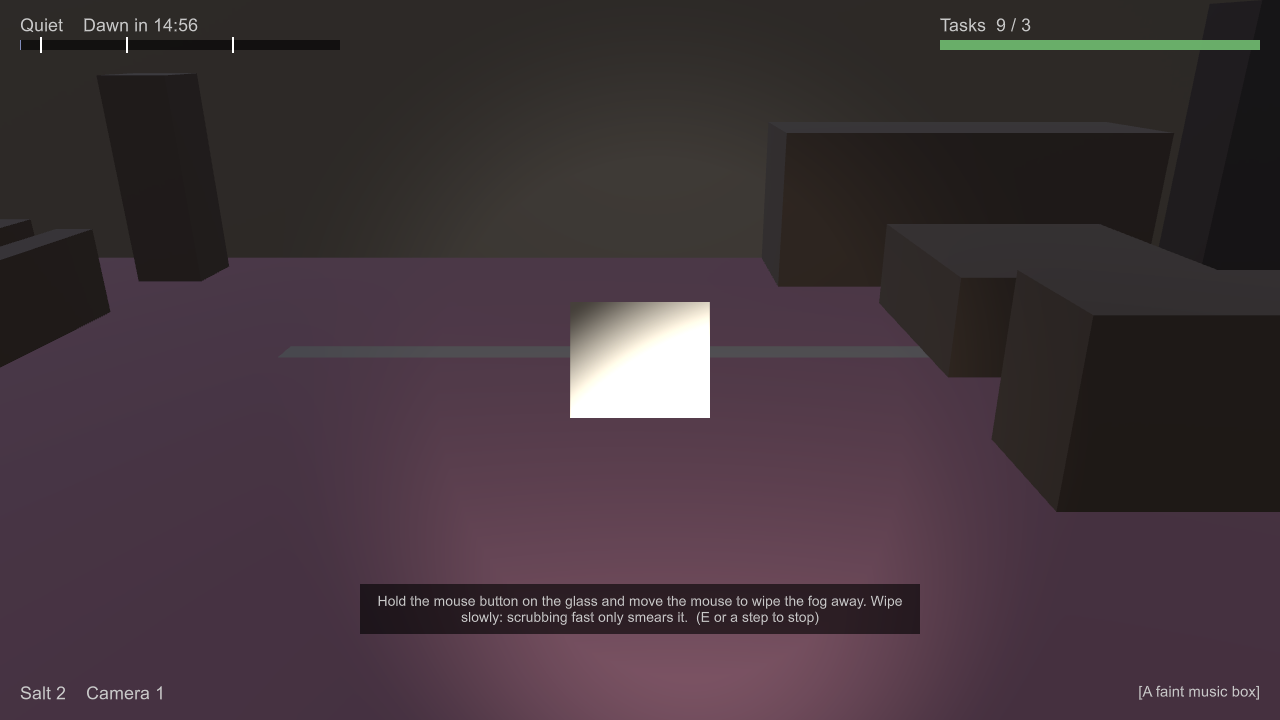
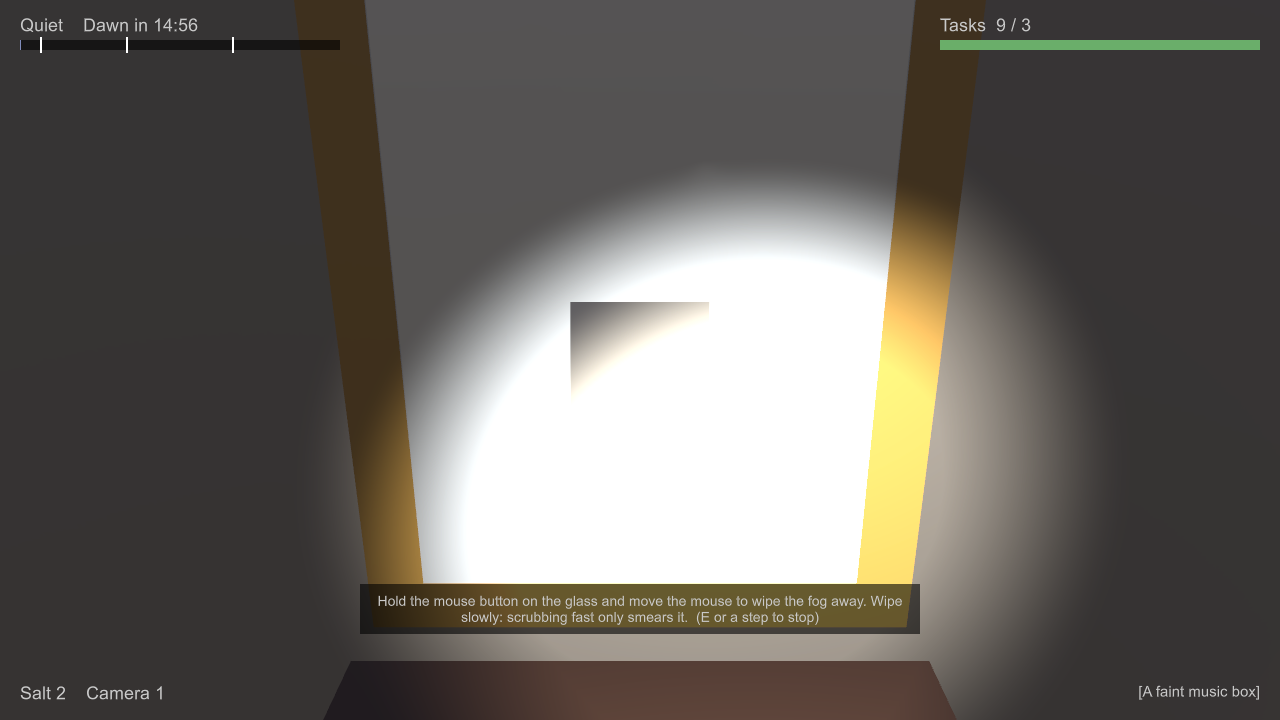
Phase 9c step C3 passed: a Unity player does all 14 tasks and the 3 relic searches by hand, then carries each relic to the relic door and places it. Station models are no longer hidden in the hotel's grey furniture boxes, world text hides behind objects, and the robot faces each station. Screenshots

diff --git a/engine/Assets/Scripts/Game/HandsBot.cs b/engine/Assets/Scripts/Game/HandsBot.cs
@@ -25,6 +25,12 @@ namespace Haunted.Game
         public MapInfo Map;
         public Stations Stations;
         public string ShotDir;
+        /// <summary>The relic in your hands ("" for none), and a relic's status by id.</summary>
+        public Func<string> Carrying;
+        public Func<string, string> RelicStatus;
+        /// <summary>The relic door (sim x, z) and the axis its wall runs along.</summary>
+        [NonSerialized] public double DoorX, DoorZ;
+        [NonSerialized] public bool DoorAlongX;
         public readonly List<string> Results = new List<string>();
 
         double vx, vy;
@@ -61,6 +67,12 @@ namespace Haunted.Game
                 while (!Hands.Active && waited < 3) { waited += Dt; yield return null; }
                 if (!Hands.Active) { Result(id, "did not open"); continue; }
                 var task = Hands.Task;
+                foreach (var part in task.Parts.Take(3))
+                {
+                    var r = part.GetComponent<Renderer>();
+                    var mf = part.GetComponent<MeshFilter>();
+                    Debug.Log("Part " + part.name + ": active " + part.activeInHierarchy + ", drawn " + (r != null && r.enabled) + ", at " + part.transform.position + ", bounds " + (r != null ? r.bounds.size.ToString() : "-") + ", verts " + (mf != null && mf.sharedMesh != null ? mf.sharedMesh.vertexCount : -1) + ", shader " + (r != null ? r.sharedMaterial.shader.name : "-") + ", colour " + (r != null ? r.sharedMaterial.color.ToString() : "-") + ", queue " + (r != null ? r.sharedMaterial.renderQueue : 0) + ", keywords " + (r != null ? string.Join(" ", r.sharedMaterial.shaderKeywords) : "") + ", layer " + part.layer + ", scale " + part.transform.lossyScale);
+                }
                 yield return new WaitForSeconds(0.6f);
                 Shot(ShotDir + "/" + id + "-open.png");
                 double started = Time.realtimeSinceStartupAsDouble;
@@ -78,8 +90,30 @@ namespace Haunted.Game
                 yield return new WaitForSeconds(0.8f);
                 Shot(ShotDir + "/" + id + "-after.png");
                 yield return new WaitForSeconds(0.5f);
+                if (!string.IsNullOrEmpty(Carrying())) yield return PlaceRelic(id);
             }
             Debug.Log("Hands test finished: " + string.Join("; ", Results.ToArray()));
+        }
+
+        /// <summary>Carries the relic you found to the relic door and holds E to place it there (GDD 10).</summary>
+        IEnumerator PlaceRelic(string from)
+        {
+            string relic = Carrying();
+            Shot(ShotDir + "/" + from + "-carrying.png");
+            foreach (var side in new[] { 1, -1 })
+            {
+                double x = DoorX + (DoorAlongX ? 0 : side * 0.9), z = DoorZ + (DoorAlongX ? side * 0.9 : 0);
+                Send("debug", new Dictionary<string, object> { { "teleport", new Dictionary<string, object> { { "x", x }, { "z", z } } } });
+                yield return new WaitForSeconds(1.2f);
+                Send("use", new Dictionary<string, object> { { "down", true } });
+                double waited = 0;
+                while (RelicStatus(relic) != "placed" && waited < 6) { waited += Dt; yield return null; }
+                Send("use", new Dictionary<string, object> { { "down", false } });
+                if (RelicStatus(relic) == "placed") break;
+            }
+            Result(from + " relic " + relic, RelicStatus(relic) == "placed" ? "carried and placed at the relic door" : "NOT placed (status " + RelicStatus(relic) + ")");
+            Shot(ShotDir + "/" + from + "-placed.png");
+            yield return new WaitForSeconds(0.5f);
         }
 
         void Result(string id, string what)

diff --git a/engine/Assets/Scripts/Game/Game.cs b/engine/Assets/Scripts/Game/Game.cs
@@ -87,8 +87,8 @@ namespace Haunted.Game
             if (baseMaterial == null) baseMaterial = new Material(Shader.Find("Universal Render Pipeline/Lit"));
 
             SetUpLight();
-            hotel = new Hotel(world, Json.Num(Json.Obj(config, "body"), "radiusM"), baseMaterial);
             map = new MapInfo(Resources.Load<TextAsset>("Data/map").text);
+            hotel = new Hotel(world, Json.Num(Json.Obj(config, "body"), "radiusM"), baseMaterial, Stations.Replaces(map));
             items = new Items(world, map, config, baseMaterial);
             others = new RemotePlayers(world, config, baseMaterial);
             HandsConfig.Load(config);
@@ -499,7 +499,19 @@ namespace Haunted.Game
                 {
                     Send = (type, body) => room.Send(type, body), Shot = path => { ScreenCapture.CaptureScreenshot(path); Debug.Log("Screenshot " + path); },
                     Hands = hands, Me = me, Map = map, Stations = stations, ShotDir = handsShots,
+                    Carrying = () => night.Me != null ? night.Me.relic : "",
+                    RelicStatus = id => { Relic r; return room.State.relics.TryGetValue(id, out r) ? r.status : "?"; },
                 };
+                // The relic door, from the map data.
+                var mapJson = (Dictionary<string, object>)Json.Parse(Resources.Load<TextAsset>("Data/map").text);
+                foreach (var o in (List<object>)mapJson["doors"])
+                {
+                    var d = (Dictionary<string, object>)o;
+                    if ((string)d["id"] != (string)mapJson["relicDoor"]) continue;
+                    bot.DoorX = Convert.ToDouble(d["x"], CultureInfo.InvariantCulture);
+                    bot.DoorZ = Convert.ToDouble(d["z"], CultureInfo.InvariantCulture);
+                    bot.DoorAlongX = (string)d["axis"] == "x";
+                }
                 StartCoroutine(bot.Run(handsTest));
             }
             if (shotPath != null && !shotTaken && shotAt >= 0 && t >= shotAt)

diff --git a/engine/Assets/Scripts/Game/Shapes.cs b/engine/Assets/Scripts/Game/Shapes.cs
@@ -15,6 +15,7 @@ namespace Haunted.Game
     {
         static Material lit, glow, clear, unlit, unlitClear;
         static Mesh cube, cylinder, sphere;
+        static Material textMaterial;
         static readonly Dictionary<string, Mesh> meshes = new Dictionary<string, Mesh>();
 
         public static void Load(Material greyBox)
@@ -238,7 +239,13 @@ namespace Haunted.Game
             go.transform.localPosition = P(x, y, z);
             var t = go.AddComponent<TextMesh>();
             t.font = Resources.GetBuiltinResource<Font>("LegacyRuntime.ttf");
-            go.GetComponent<MeshRenderer>().sharedMaterial = t.font.material;
+            if (textMaterial == null)
+            {
+                // The font's own material draws over everything (GUI text); in the world it must hide behind things.
+                textMaterial = new Material(t.font.material);
+                textMaterial.SetFloat("unity_GUIZTestMode", (float)UnityEngine.Rendering.CompareFunction.LessEqual);
+            }
+            go.GetComponent<MeshRenderer>().sharedMaterial = textMaterial;
             t.fontSize = 64;
             t.fontStyle = style;
             // At fontSize 64 a characterSize of 1 makes letters about 6.4 m tall... scaled to size.

diff --git a/engine/Assets/Scripts/Game/Hotel.cs b/engine/Assets/Scripts/Game/Hotel.cs
@@ -27,7 +27,8 @@ namespace Haunted.Game
         static readonly Color StairColor = new Color(0.45f, 0.4f, 0.36f);
         const float FloorThicknessM = 0.1f;
 
-        public Hotel(WorldData world, double bodyRadiusM, Material baseMaterial)
+        /// <summary>replaced: whether a model stands in this furniture's place (a task station), so its grey box is left out, as the browser leaves out boxes its models replace. Collision still has it.</summary>
+        public Hotel(WorldData world, double bodyRadiusM, Material baseMaterial, System.Func<SolidBox, bool> replaced = null)
         {
             World = world;
             Collision = new Collision(world, bodyRadiusM);
@@ -44,6 +45,7 @@ namespace Haunted.Game
 
             foreach (var s in world.Solids)
             {
+                if (s.Kind == "furniture" && replaced != null && replaced(s)) continue;
                 Color color = s.Kind == "door" ? DoorColor : s.Kind == "hide" ? HideColor : s.Kind == "furniture" ? FurnitureColor : WallColor;
                 var go = Box((s.Id ?? s.Kind), s.X, s.Z, s.SizeX, s.SizeZ, 0, s.HeightM, color);
                 go.transform.SetParent(root.transform, true);

diff --git a/engine/Assets/Scripts/Game/Stations.cs b/engine/Assets/Scripts/Game/Stations.cs
@@ -135,6 +135,18 @@ namespace Haunted.Game
             }
         }
 
+        /// <summary>Whether a station or a place to search stands inside this piece of furniture: its model takes the grey box's place.</summary>
+        public static Func<SolidBox, bool> Replaces(MapInfo map)
+        {
+            var points = map.Tasks.Select(t => t.At).ToList();
+            foreach (var spot in map.RelicSpots)
+            {
+                if (spot.Places != null) points.AddRange(spot.Places.Select(p => p.At));
+                else points.Add(spot.At);
+            }
+            return s => points.Any(p => Math.Abs(p.X - s.X) <= s.SizeX / 2 + 0.05 && Math.Abs(p.Z - s.Z) <= s.SizeZ / 2 + 0.05);
+        }
+
         void Place(Transform t, WorldData world, MapInfo map, double x, double z, double yaw)
         {
             t.SetParent(root, false);

diff --git a/docs/plans/engine-port.md b/docs/plans/engine-port.md
@@ -120,3 +120,10 @@ Step C is the biggest step, so it is done in five parts, each tested before the 
 **C1 passed (2026-11-15).** A Unity host and two bots (`tools/playtest.ts lose-dawn CODE` and `lose-dead CODE`) played to the end screen: lobby, start, role, the night clock and its parts, the task bar, being down (`step-c/c1-night-hud-down.png`), dawn and everyone-dead endings (`step-c/c1-end-screen.png`), and Rematch back to the lobby (`step-c/c1-rematch-lobby.png`). New test options: `-startWith 3` (host starts a debug night once 3 are in), `-ready`, `-debugAtNight 30 '{"down":true}'`, `-rematchAfter 3`. The ritual ending waits for C3: the task bar counts the Unity player's tasks too. `tools/engine-export.ts` now also writes `characters.json` for the intro's character names.
 
 **C2 passed (2026-11-15).** One Unity player on a debug server (`-startWith 1`, test sends with `-sendAtNight` and `-debugAtNight`, screenshots with `-shotAtNight`): pouring salt (key 3) took salt 2 to 1, the salt jar's prompt showed and E took the salt back to 2 (`step-c/c2-salt-jar-prompt.png`), the photo (key 2, then click) gave the browser's banner, and near a hidden relic the music box played with the subtitle "A music box plays close by" (`step-c/c2-music-box-cue.png`). The music box is made in Unity from the browser's tune, notes and echo. Keys now match the browser's defaults: 1 or a click for the flashlight, 2 for the camera, 3 for salt, G to drop. The salt crocks, salt lines and dropped relics are the browser's simple shapes until step D.
+
+**C3 passed (2026-11-15).** A Unity player did every kind of task by hand in 3D, with no 2D windows. The robot test (`-handsTest all -handsShots DIR`) aims the crosshair, grabs and drags like a person. It did all 14 tasks, the lockbox, the dig and the drain, and the server accepted each one. After each search it carried the relic to the basement door and held E until the relic was placed ("Locked: 3 of 3"). Screenshots of each station when opened, when done, carrying and placed are in `step-c/c3/`. The task rules and the browser's logic tests are ported to C#, and `check-sim` runs them. The task sounds are made in Unity from the browser's recipes. Fixes found on the way:
+- The hotel's grey furniture boxes covered the station models, so they are left out where a station stands. They still block movement.
+- World text now hides behind objects.
+- The glow materials keep their emission variant in the build.
+
+The stations are the browser's plain models until step D. A search cannot open while you carry a relic, which is the server's rule.
